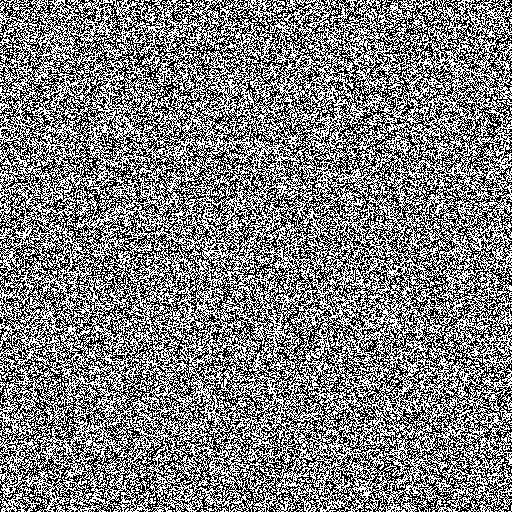
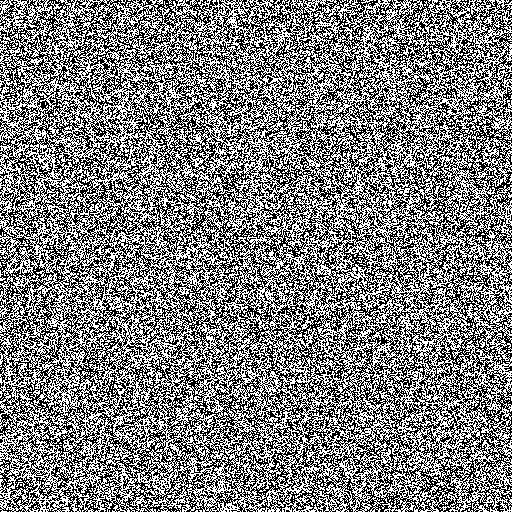
Enhanced draw_random to draw a background for my blog. ( https://dynamicsoftwaremd.blogspot.com )

diff --git a/draw_random.py b/draw_random.py
@@ -2,6 +2,7 @@ from PIL import Image, ImageDraw
 import random
 import rd_functions_p
 import time
+import math
 
 
 def InternalPythonFunction():
@@ -27,7 +28,7 @@ def HardwarePythonFunction():
     rdObj = rd_functions_p.RdFunctions()
     bigs = []
     start = time.time()
-    for i in range(int((512 * 512) / 64)):
+    for i in range(math.ceil((512 * 512) / 64)):
         bigs.append(rdObj.RdRand64_Retry())
     # rdObj.RdRand64_Retry(3)
     mybits = get64BitsGenerator(bigs)
@@ -45,6 +46,41 @@ def HardwarePythonFunction():
     # Save the image to a file
     im.save("random_image_hardware.png")
     print("{0:.3f} seconds for hardware function".format(end - start))
+
+
+def HardwareBlogBackground():
+    # Create a new image
+    width = 1800  # 1800
+    height = 1600  # 1600
+    squaresize = 7  # the size of each square, 1 pixel is too small for most uses
+    im = Image.new(
+        "RGB", (width, height), color=(197, 220, 233)
+    )  # color=(197, 220, 233))
+    rdObj = rd_functions_p.RdFunctions()
+    bigs = []
+    start = time.time()
+    for i in range(math.ceil((width * height) / 64)):
+        bigs.append(rdObj.RdRand64_Retry())
+    # rdObj.RdRand64_Retry(3)
+    mybits = get64BitsGenerator(bigs)
+    # Draw random white pixels
+    draw = ImageDraw.Draw(im)
+
+    for y in range(0, height, squaresize):
+        for x in range(0, width, squaresize):
+            # if random.randint(0, 1):
+            # for each bit in bigs, if the bit is 1, draw a pixel
+            pixel = (next(mybits)) & 1
+            if pixel:
+                for x1 in range(x, x + squaresize):
+                    for y1 in range(y, y + squaresize):
+                        draw.point(
+                            (x1, y1), (197, 202, 233)
+                        )  # 197,202,233 is the light blue used on the resume site.
+    end = time.time()
+    # Save the image to a file
+    im.save("random_image_blog.png")
+    print("{0:.3f} seconds for blog image function".format(end - start))
 
 
 def get64BitsGenerator(bigs):
@@ -67,5 +103,6 @@ def testGenerator():
 
 
 if __name__ == "__main__":
-    InternalPythonFunction()
-    HardwarePythonFunction()
+    # InternalPythonFunction()
+    # HardwarePythonFunction()
+    HardwareBlogBackground()
